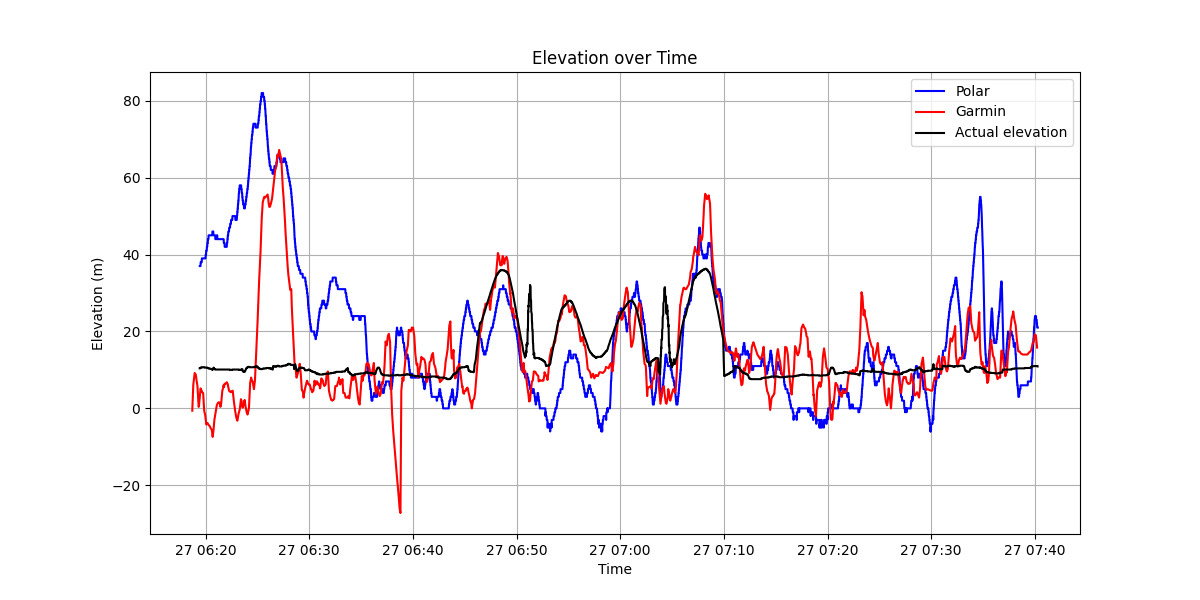
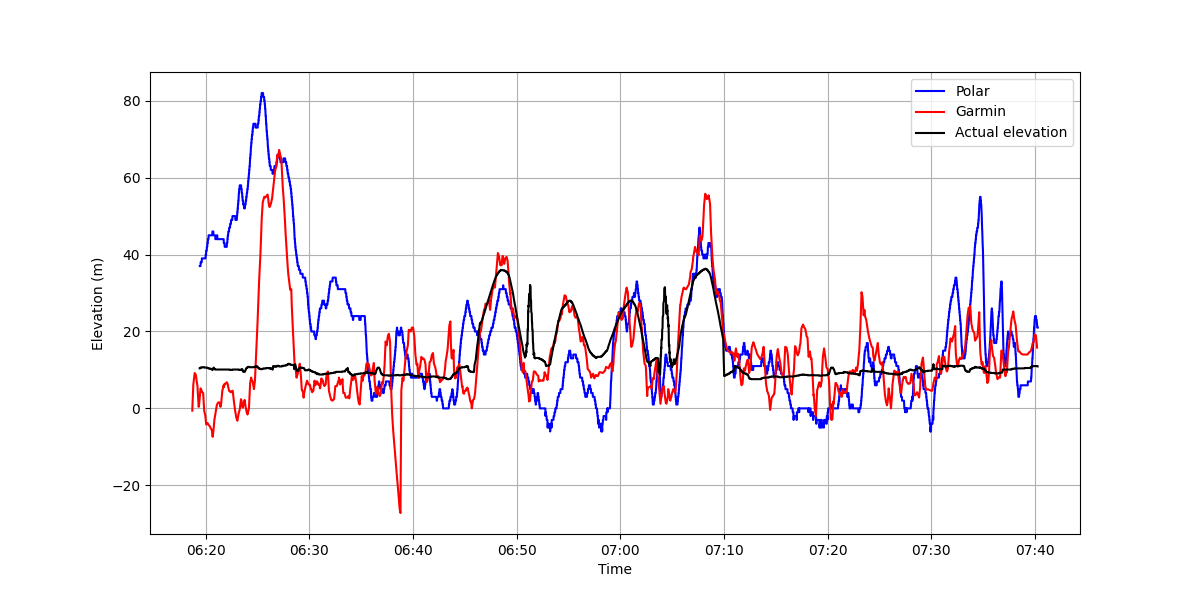
Nits

diff --git a/scripts/plots.py b/scripts/plots.py
@@ -1,13 +1,17 @@
 import gpxpy
 import sys
 import os
+import matplotlib
 
 import pandas as pd
 import matplotlib.pyplot as plt
 import contextily as ctx
+import matplotlib.dates as mdates
 
 from pytz import timezone
 from geopy.distance import geodesic
+
+matplotlib.rcParams['timezone'] = 'Asia/Singapore'
 
 def parse_gpx(filepath):
   gpx_file = open(filepath, 'r')
@@ -41,17 +45,6 @@ def parse_gpx(filepath):
   
   return df
 
-def plot_location(df, label, color, output_dir, filename):
-  plt.figure(figsize=(12, 6))
-  plt.plot(df['longitude'], df['latitude'], color=color, linestyle='-', label=label)
-  ctx.add_basemap(plt.gca(), crs='EPSG:4326', source=ctx.providers.OpenStreetMap.Mapnik)
-  plt.xlabel('Longitude')
-  plt.ylabel('Latitude')
-  plt.title('Latitude and Longitude Plot')
-  plt.legend()
-  plt.grid(True)
-  plt.savefig(output_dir + '/' + filename)
-
 def main(args):
   input_dir = args[0]
   output_dir = args[1]
@@ -64,9 +57,16 @@ def main(args):
   route_df = parse_gpx(input_dir + '/route.gpx')
   elevation_df = parse_gpx(input_dir + '/elevation.gpx')
 
-  plot_location(polar_df, 'Polar', 'blue', output_dir, 'polar-location.png')
-  plot_location(garmin_df, 'Garmin', 'red', output_dir, 'garmin-location.png')
-  plot_location(route_df, 'Route', 'black', output_dir, 'route-location.png')
+  plt.figure(figsize=(15, 8))
+  plt.plot(polar_df['longitude'], polar_df['latitude'], color='blue', label='Polar')
+  plt.plot(garmin_df['longitude'], garmin_df['latitude'], color='red', label='Garmin')
+  plt.plot(route_df['longitude'], route_df['latitude'], color='black', label='Route')
+  ctx.add_basemap(plt.gca(), crs='EPSG:4326', source=ctx.providers.OpenStreetMap.Mapnik)
+  plt.legend()
+  plt.xticks([], [])
+  plt.yticks([], [])
+  plt.tick_params(axis='both', which='both', bottom=False, top=False, left=False, right=False)
+  plt.savefig(output_dir + '/' + 'location.png')
 
   plt.figure(figsize=(12, 6))
   plt.plot(polar_df['time'], polar_df['elevation'], color='blue', label='Polar')
@@ -74,20 +74,10 @@ def main(args):
   plt.plot(elevation_df['time'], elevation_df['elevation'], color='black', label='Actual elevation')
   plt.xlabel('Time')
   plt.ylabel('Elevation (m)')
-  plt.title('Elevation over Time')
   plt.legend()
   plt.grid(True)
+  plt.gca().xaxis.set_major_formatter(mdates.DateFormatter('%H:%M'))
   plt.savefig(output_dir + '/' + 'elevation.png')
-
-  plt.figure(figsize=(12, 6))
-  plt.plot(polar_df['time'], polar_df['distance'], color='blue', label='Polar')
-  plt.plot(garmin_df['time'], garmin_df['distance'], color='red', label='Garmin')
-  plt.xlabel('Time')
-  plt.ylabel('Distance (km)')
-  plt.title('Distance over Time')
-  plt.legend()
-  plt.grid(True)
-  plt.savefig(output_dir + '/' + 'distance.png')
 
 if __name__ == "__main__":
     main(sys.argv[1:])
